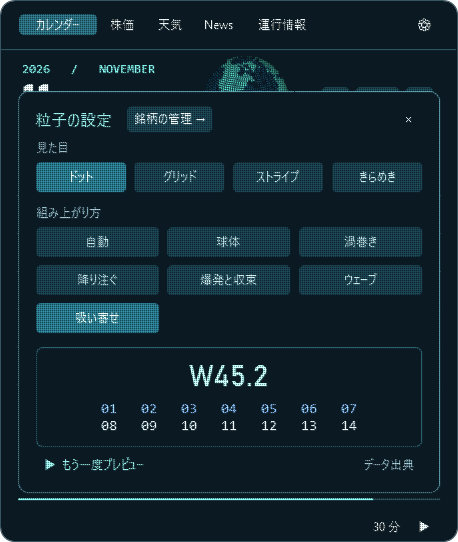
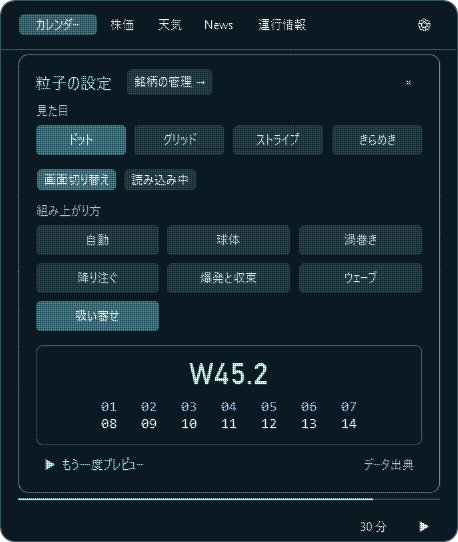
Add persisted loading animation choices with live settings preview

diff --git a/src/Calendar.xaml b/src/Calendar.xaml
@@ -159,6 +159,8 @@
           </Grid>
           <TextBlock Text="見た目" Foreground="#92B5BE" FontSize="12" Margin="4,0,0,3"/>
           <UniformGrid Name="PatternChoices" Columns="4"/>
+          <StackPanel Orientation="Horizontal" Margin="4,9,4,3"><Button Name="SettingsTransition" Content="画面切り替え"/><Button Name="SettingsLoading" Content="読み込み中" Margin="6,0,0,0"/></StackPanel>
+          <Grid Height="256"><StackPanel Name="TransitionSettings">
           <TextBlock Text="組み上がり方" Foreground="#92B5BE" FontSize="12" Margin="4,9,0,3"/>
           <UniformGrid Name="MotionChoices" Columns="3"/>
           <Border Name="PreviewArea" BorderBrush="#2A5965" BorderThickness="1" CornerRadius="6" Padding="12" Margin="4,10,4,3">
@@ -168,6 +170,11 @@
               <TextBlock Text="08   09   10   11   12   13   14" Foreground="#DBEDF0" FontFamily="Consolas" FontSize="14" HorizontalAlignment="Center"/>
             </StackPanel>
           </Border>
+          </StackPanel><StackPanel Name="LoadingSettings" Visibility="Collapsed">
+            <TextBlock Text="読み込み中の動き" Foreground="#92B5BE" FontSize="12" Margin="4,9,0,3"/>
+            <UniformGrid Name="LoadingChoices" Columns="2"/>
+            <Border Name="LoadingPreviewArea" Height="132" BorderBrush="#2A5965" BorderThickness="1" CornerRadius="6" Margin="4,10,4,3"><Grid Name="LoadingPreview" ClipToBounds="True"/></Border>
+          </StackPanel></Grid>
           <Grid><Button Name="ReplayPreview" Content="▶  もう一度プレビュー" HorizontalAlignment="Left" Foreground="#8FE4DD" Margin="4,3"/><Button Name="OpenCredits" Content="データ出典" HorizontalAlignment="Right" Margin="4,3" Foreground="#92B5BE"/></Grid>
         </StackPanel>
       </Border>

diff --git a/src/Controls.cs b/src/Controls.cs
@@ -11,9 +11,11 @@ namespace OrbitCalendar
     internal static class Preferences
     {
         static readonly string path = Path.Combine(Environment.GetFolderPath(Environment.SpecialFolder.LocalApplicationData), "OrbitCalendar", "display.txt");
-        public static int Pattern, Motion = 6, Minutes = 30, LastTab;
-        static Preferences()
+        public static int Pattern, Motion = 6, Minutes = 30, LastTab, LoadingMotion;
+        static Preferences() { Load(); }
+        internal static void Load()
         {
+            Pattern = LastTab = LoadingMotion = 0; Motion = 6; Minutes = 30;
             try
             {
                 var parts = File.ReadAllLines(path);
@@ -22,13 +24,14 @@ namespace OrbitCalendar
                 if (parts.Length > 1 && int.TryParse(parts[1], out value) && value >= 0 && value < 7) Motion = value;
                 if (parts.Length > 2 && int.TryParse(parts[2], out value) && value >= 1 && value <= 180) Minutes = value;
                 if (parts.Length > 3 && int.TryParse(parts[3], out value) && value >= 0 && value <= 4) LastTab = value;
+                if (parts.Length > 4 && int.TryParse(parts[4], out value) && value >= 0 && value < 4) LoadingMotion = value;
             }
             catch (IOException) { }
             catch (UnauthorizedAccessException) { }
         }
         public static void Save()
         {
-            try { Directory.CreateDirectory(Path.GetDirectoryName(path)); File.WriteAllLines(path, new[] { Pattern.ToString(), Motion.ToString(), Minutes.ToString(), LastTab.ToString() }); }
+            try { Directory.CreateDirectory(Path.GetDirectoryName(path)); File.WriteAllLines(path, new[] { Pattern.ToString(), Motion.ToString(), Minutes.ToString(), LastTab.ToString(), LoadingMotion.ToString() }); }
             catch (IOException) { }
             catch (UnauthorizedAccessException) { }
         }
@@ -79,7 +82,9 @@ namespace OrbitCalendar
             };
             Get<Button>("CloseTimePicker").Click += delegate { ClosePanel("TimerPicker"); };
             Get<Button>("CloseSettingsPicker").Click += delegate { ClosePanel("SettingsPicker"); };
-            Get<Button>("ReplayPreview").Click += delegate { effect.StartArea(PanelBounds(Get<Border>("PreviewArea")), true); };
+            Get<Button>("ReplayPreview").Click += delegate { ReplaySettingPreview(); };
+            Get<Button>("SettingsTransition").Click += delegate { showLoadingSettings = false; UpdateSettingsSection(); effect.StartArea(PanelBounds(Get<Border>("SettingsPicker"))); };
+            Get<Button>("SettingsLoading").Click += delegate { showLoadingSettings = true; UpdateSettingsSection(); effect.StartArea(PanelBounds(Get<Border>("SettingsPicker"))); };
             root.PreviewMouseDown += delegate(object sender, System.Windows.Input.MouseButtonEventArgs e)
             {
                 var target = e.OriginalSource as DependencyObject;
@@ -102,6 +107,7 @@ namespace OrbitCalendar
                 picker.Visibility = Visibility.Visible;
                 Get<TextBlock>("PreviewTitle").Text = "W" + IsoWeek(selected).ToString("00") + "." + IsoDay(selected);
                 UpdateSettingChoices();
+                UpdateSettingsSection();
                 effect.StartArea(PanelBounds(picker));
             };
         }
@@ -134,6 +140,27 @@ namespace OrbitCalendar
                 Preferences.Motion = value;
                 PreviewSetting();
             });
+            FillChoices("LoadingChoices", new[] { "集合と拡散", "渦巻き", "ウェーブ", "漂う粒子" }, Preferences.LoadingMotion, delegate(int value)
+            {
+                Preferences.LoadingMotion = value;
+                PreviewSetting();
+            });
+        }
+
+        bool showLoadingSettings;
+        void UpdateSettingsSection()
+        {
+            Get<StackPanel>("TransitionSettings").Visibility = showLoadingSettings ? Visibility.Collapsed : Visibility.Visible;
+            Get<StackPanel>("LoadingSettings").Visibility = showLoadingSettings ? Visibility.Visible : Visibility.Collapsed;
+            Get<Button>("SettingsTransition").Background = Art.Ink(showLoadingSettings ? "#193B48" : "#287181");
+            Get<Button>("SettingsLoading").Background = Art.Ink(showLoadingSettings ? "#287181" : "#193B48");
+            if (showLoadingSettings) { settingsLoadingParticles.SetMode(mode == 0 ? 2 : mode); previewLoadingClock.Restart(); }
+        }
+
+        void ReplaySettingPreview()
+        {
+            if (showLoadingSettings) { settingsLoadingParticles.Phase = 0; settingsLoadingParticles.InvalidateVisual(); previewLoadingClock.Restart(); }
+            effect.StartArea(PanelBounds(Get<Border>(showLoadingSettings ? "LoadingPreviewArea" : "PreviewArea")), true);
         }
 
         void FillChoices(string name, string[] names, int selectedValue, Action<int> choose)
@@ -155,7 +182,7 @@ namespace OrbitCalendar
         {
             Preferences.Save();
             UpdateSettingChoices();
-            effect.StartArea(PanelBounds(Get<Border>("PreviewArea")), true);
+            ReplaySettingPreview();
         }
     }
 }

diff --git a/src/LoadingAnimation.cs b/src/LoadingAnimation.cs
@@ -72,10 +72,19 @@ namespace OrbitCalendar
             for (int i = 0; i < seeds.Length; i++)
             {
                 var seed = seeds[i]; double t = (Phase / 3.8 + seed.Delay) % 1;
+                if (Preferences.LoadingMotion == 2) t = (Phase / 3.8 + seed.Target.X / Width * .3) % 1;
                 double gather = t < .48 ? Ease(t / .48) : t < .68 ? 1 : 1 - Ease((t - .68) / .32);
-                if (!SystemParameters.ClientAreaAnimation) gather = 1;
                 double x = seed.Origin.X + Math.Sin(Phase * 1.1 + i * .73) * 8;
                 double y = seed.Origin.Y + Math.Cos(Phase * .9 + i * 1.13) * 6;
+                if (Preferences.LoadingMotion == 1)
+                {
+                    double angle = Math.Atan2(y - 58, x - 102) + (1 - gather) * Math.PI * 2;
+                    double radius = new Vector(x - 102, y - 58).Length;
+                    x = 102 + Math.Cos(angle) * radius; y = 58 + Math.Sin(angle) * radius * .6;
+                }
+                else if (Preferences.LoadingMotion == 2) y += Math.Sin(Phase * 4 + seed.Target.X * .06) * 14;
+                else if (Preferences.LoadingMotion == 3) gather = .74 + .19 * Math.Sin(Phase * 1.3 + seed.Delay * 9);
+                if (!SystemParameters.ClientAreaAnimation) gather = 1;
                 var point = new Point(x + (seed.Target.X - x) * gather, y + (seed.Target.Y - y) * gather);
                 double r = Preferences.Pattern == 3 && i % 7 == 0 ? seed.Size * 1.3 : seed.Size;
                 if (Preferences.Pattern == 1) dc.DrawRectangle(inks[seed.Ink], null, new Rect(point.X - r, point.Y - r, r * 1.7, r * 1.7));
@@ -88,14 +97,26 @@ namespace OrbitCalendar
     {
         readonly DispatcherTimer loadingAnimation = new DispatcherTimer { Interval = TimeSpan.FromMilliseconds(50) };
         readonly System.Diagnostics.Stopwatch loadingClock = System.Diagnostics.Stopwatch.StartNew();
-        ParticleLoading mainLoadingParticles, newsLoadingParticles;
+        readonly System.Diagnostics.Stopwatch previewLoadingClock = new System.Diagnostics.Stopwatch();
+        ParticleLoading mainLoadingParticles, newsLoadingParticles, settingsLoadingParticles;
         CancellationTokenSource dataLoadingOwner;
         void InitializeLoading()
         {
             mainLoadingParticles = new ParticleLoading(); Get<Grid>("LoadingArea").Children.Add(mainLoadingParticles);
+            settingsLoadingParticles = new ParticleLoading(); Get<Grid>("LoadingPreview").Children.Add(settingsLoadingParticles);
             loadingAnimation.Tick += delegate
             {
-                if (!IsVisible || IsClosing || mode < 1) return;
+                if (!IsVisible || IsClosing || !SystemParameters.ClientAreaAnimation) return;
+                if (Get<Border>("SettingsPicker").Visibility == Visibility.Visible)
+                {
+                    if (showLoadingSettings)
+                    {
+                        settingsLoadingParticles.Phase = previewLoadingClock.Elapsed.TotalSeconds; settingsLoadingParticles.InvalidateVisual();
+                        effect.RefreshArea(PanelBounds(Get<Border>("LoadingPreviewArea")));
+                    }
+                    return;
+                }
+                if (mode < 1) return;
                 var dots = dataLoadingOwner != null ? mainLoadingParticles : mode == 3 && newsPreview != null ? newsLoadingParticles : null;
                 if (dots == null || !dots.IsVisible || !SystemParameters.ClientAreaAnimation) return;
                 dots.Phase = loadingClock.Elapsed.TotalSeconds; dots.InvalidateVisual();
